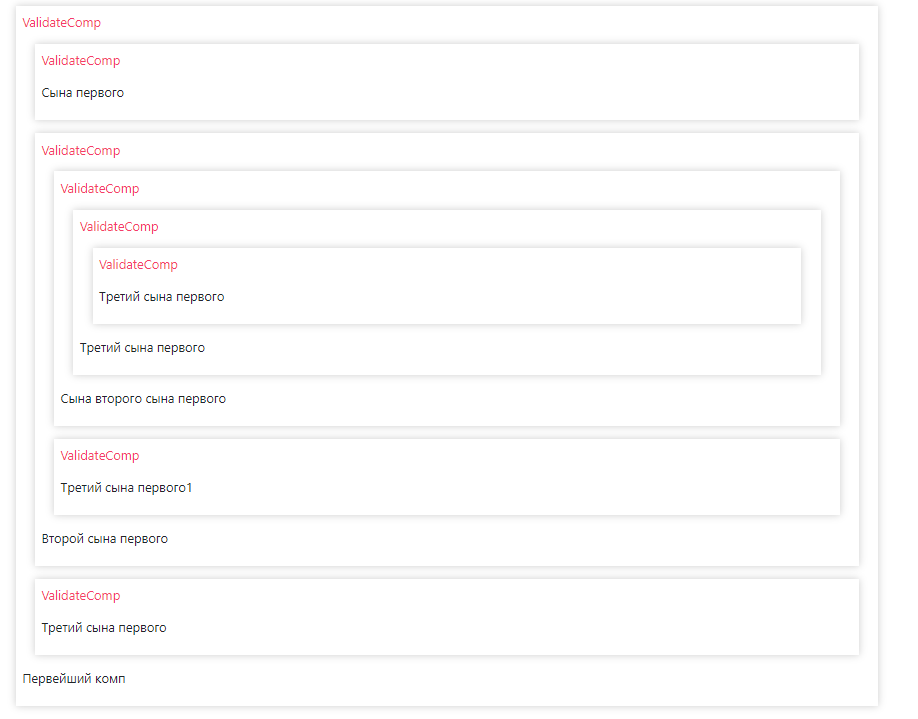
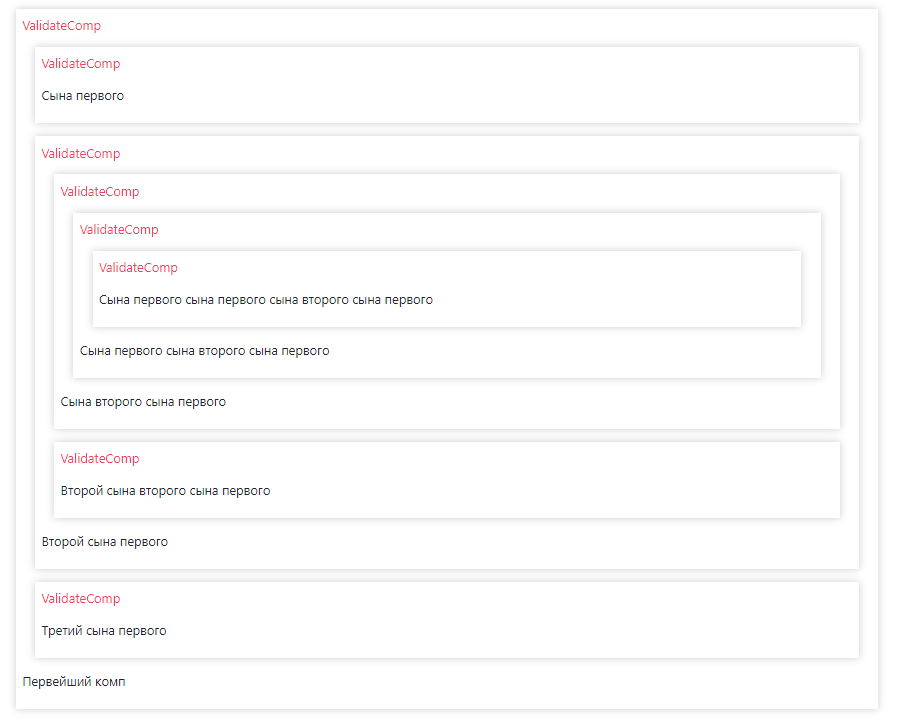
Подправил текст и заменил скрин.

diff --git a/src/reducers/index.js b/src/reducers/index.js
@@ -12,11 +12,11 @@ const validates = handleActions({
             { id: 2, inner:{ text: 'Сына первого' }, children: []},
             { id: 3, inner:{ text: 'Второй сына первого' }, children: [
                 { id: 4, inner:{ text: 'Сына второго сына первого' }, children: [
-                    { id: 6, inner:{ text: 'Третий сына первого' }, children: [
-                        { id: 7, inner:{ text: 'Третий сына первого' }, children: [] },
+                    { id: 6, inner:{ text: 'Сына первого сына второго сына первого' }, children: [
+                        { id: 7, inner:{ text: 'Сына первого сына первого сына второго сына первого' }, children: [] },
                     ]}
                 ]},
-                { id: 8, inner:{ text: 'Третий сына первого1' }, children: []}
+                { id: 8, inner:{ text: 'Второй сына второго сына первого' }, children: []}
             ]},
             { id: 5, inner:{ text: 'Третий сына первого' }, children: [] },
         ] }
